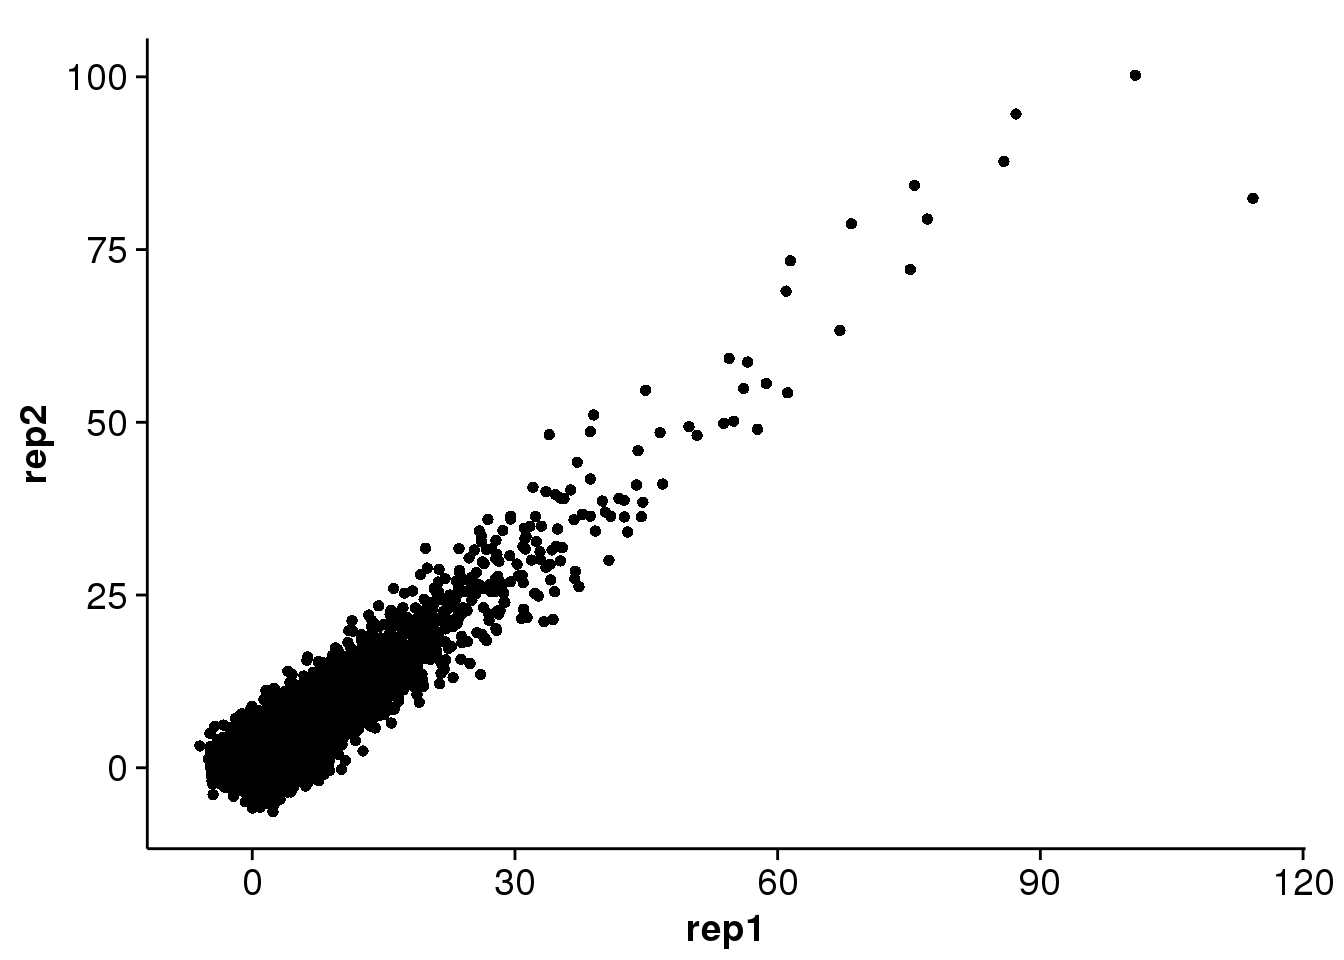
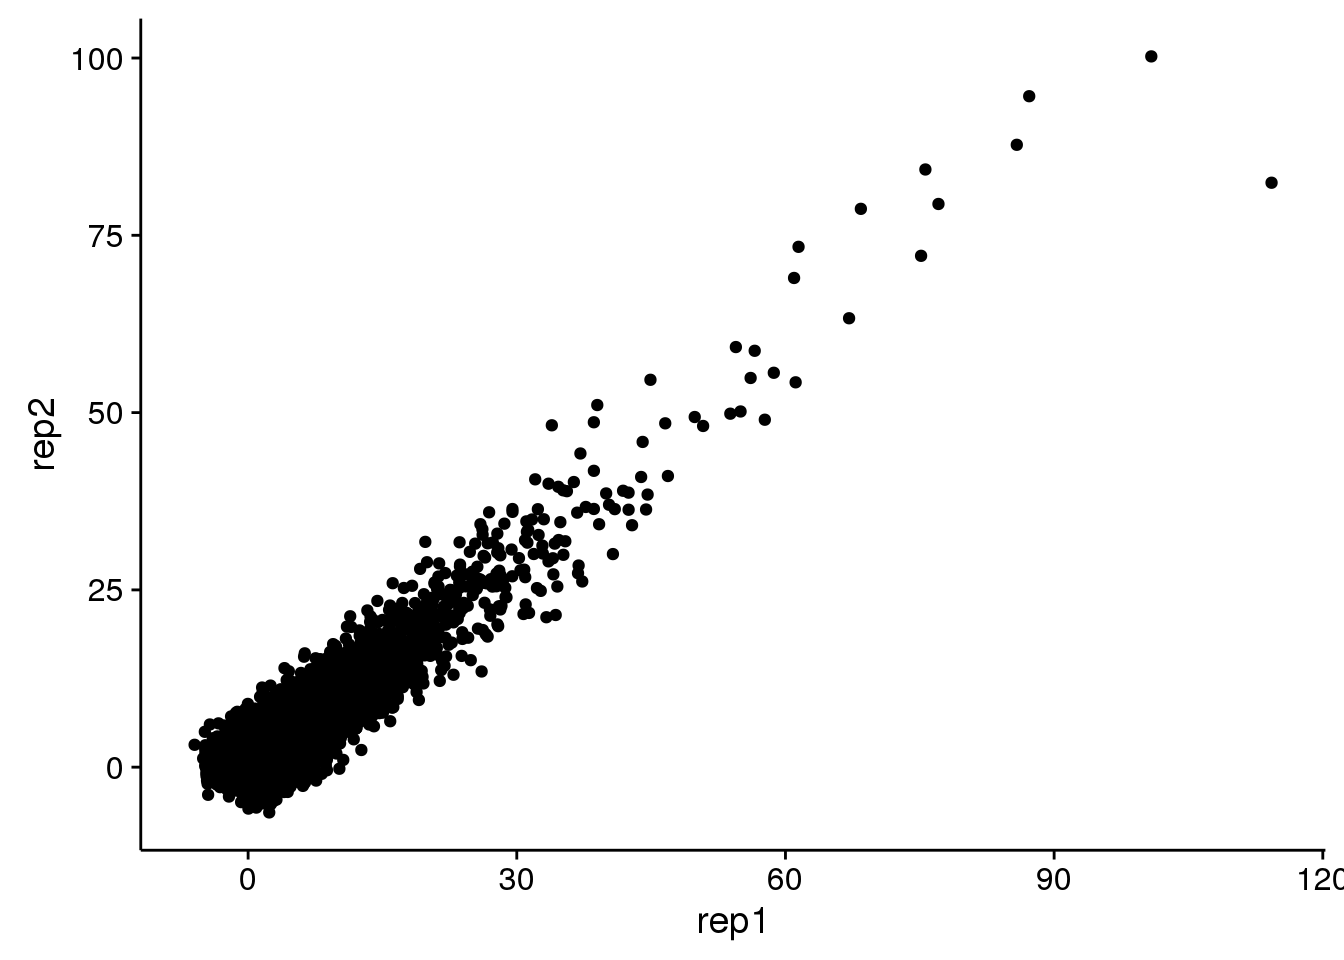
updated ggplot2 and cowplot to latest versions

diff --git a/glbio2016_manuscript.knit.md b/glbio2016_manuscript.knit.md
@@ -1,7 +1,7 @@
 ---
 title: "Visualizing Effect of Data Transformations on Errors"
 author: "Robert M Flight"
-date: "2015-12-29 22:01:06"
+date: "2015-12-29 22:15:12"
 output: html_document
 ---
 
@@ -93,7 +93,7 @@ of 2 and 0.1 respectively.
 |circlize                    |   |0.3.2      |2015-10-21 |CRAN (R 3.2.2)                           |
 |colorspace                  |   |1.2-6      |2015-03-11 |CRAN (R 3.2.2)                           |
 |ComplexHeatmap              |   |1.7.1      |2015-10-10 |Github (jokergoo/ComplexHeatmap@e502955) |
-|cowplot                     |*  |0.5.0      |2015-07-01 |CRAN (R 3.2.2)                           |
+|cowplot                     |*  |0.6.0      |2015-12-19 |CRAN (R 3.2.2)                           |
 |DBI                         |   |0.3.1      |2014-09-24 |CRAN (R 3.2.2)                           |
 |dendextend                  |   |1.1.2      |2015-10-31 |CRAN (R 3.2.2)                           |
 |dendsort                    |   |0.3.2      |2014-09-29 |CRAN (R 3.2.2)                           |
@@ -105,26 +105,21 @@ of 2 and 0.1 respectively.
 |formatR                     |   |1.2.1      |2015-09-18 |CRAN (R 3.2.2)                           |
 |GetoptLong                  |   |0.1.0      |2015-03-09 |CRAN (R 3.2.2)                           |
 |ggbiplot                    |   |0.55       |2015-10-19 |Github (rmflight/ggbiplot@7325e88)       |
-|ggplot2                     |*  |1.0.1      |2015-03-17 |CRAN (R 3.2.2)                           |
+|ggplot2                     |*  |2.0.0      |2015-12-18 |CRAN (R 3.2.2)                           |
 |GlobalOptions               |   |0.0.8      |2015-08-18 |CRAN (R 3.2.2)                           |
 |gtable                      |   |0.1.2      |2012-12-05 |CRAN (R 3.2.2)                           |
-|highr                       |   |0.5.1      |2015-09-18 |CRAN (R 3.2.2)                           |
 |htmltools                   |   |0.2.6      |2014-09-08 |CRAN (R 3.2.2)                           |
 |knitr                       |   |1.11       |2015-08-14 |CRAN (R 3.2.2)                           |
 |labeling                    |   |0.3        |2014-08-23 |CRAN (R 3.2.2)                           |
 |magrittr                    |   |1.5        |2014-11-22 |CRAN (R 3.2.2)                           |
-|MASS                        |   |7.3-44     |2015-08-30 |CRAN (R 3.2.2)                           |
 |memoise                     |   |0.2.1      |2014-04-22 |CRAN (R 3.2.2)                           |
 |munsell                     |   |0.4.2      |2013-07-11 |CRAN (R 3.2.2)                           |
 |plyr                        |   |1.8.3      |2015-06-12 |CRAN (R 3.2.2)                           |
-|proto                       |   |0.3-10     |2012-12-22 |CRAN (R 3.2.2)                           |
 |R6                          |   |2.1.1      |2015-08-19 |CRAN (R 3.2.2)                           |
 |RColorBrewer                |   |1.1-2      |2014-12-07 |CRAN (R 3.2.2)                           |
 |Rcpp                        |   |0.12.2     |2015-11-15 |CRAN (R 3.2.2)                           |
-|reshape2                    |   |1.4.1      |2014-12-06 |CRAN (R 3.2.2)                           |
 |rjson                       |   |0.2.15     |2014-11-03 |CRAN (R 3.2.2)                           |
 |rmarkdown                   |   |0.8.1      |2015-10-10 |CRAN (R 3.2.2)                           |
-|rstudioapi                  |   |0.3.1      |2015-04-07 |CRAN (R 3.2.2)                           |
 |scales                      |   |0.3.0      |2015-08-25 |CRAN (R 3.2.2)                           |
 |shape                       |   |1.4.2      |2014-11-05 |CRAN (R 3.2.2)                           |
 |stringi                     |   |1.0-1      |2015-10-22 |CRAN (R 3.2.2)                           |
